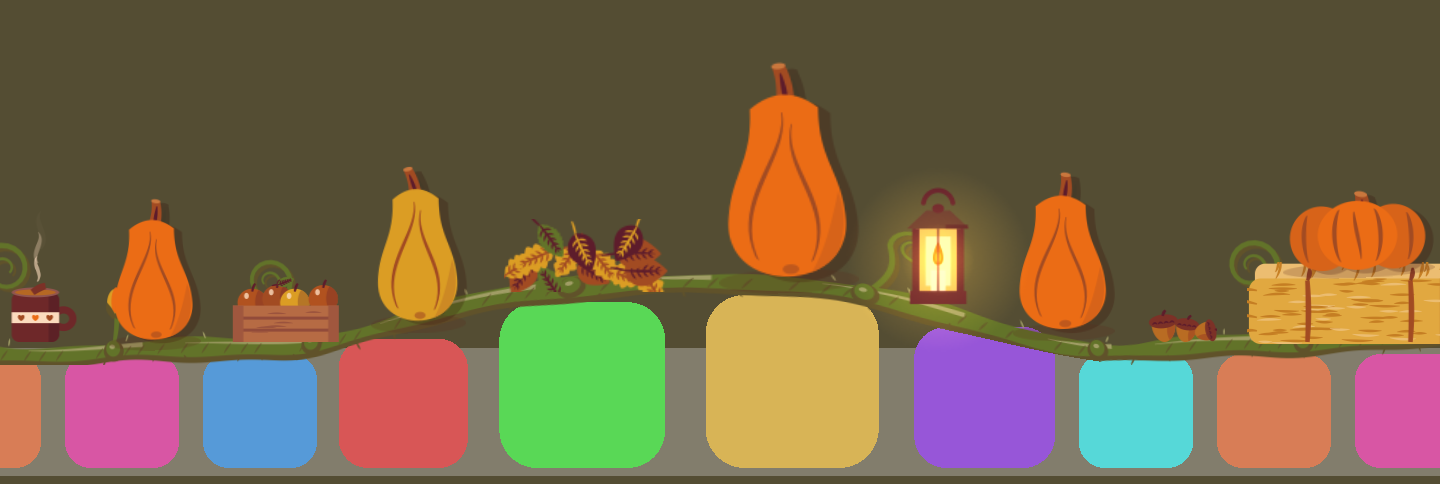
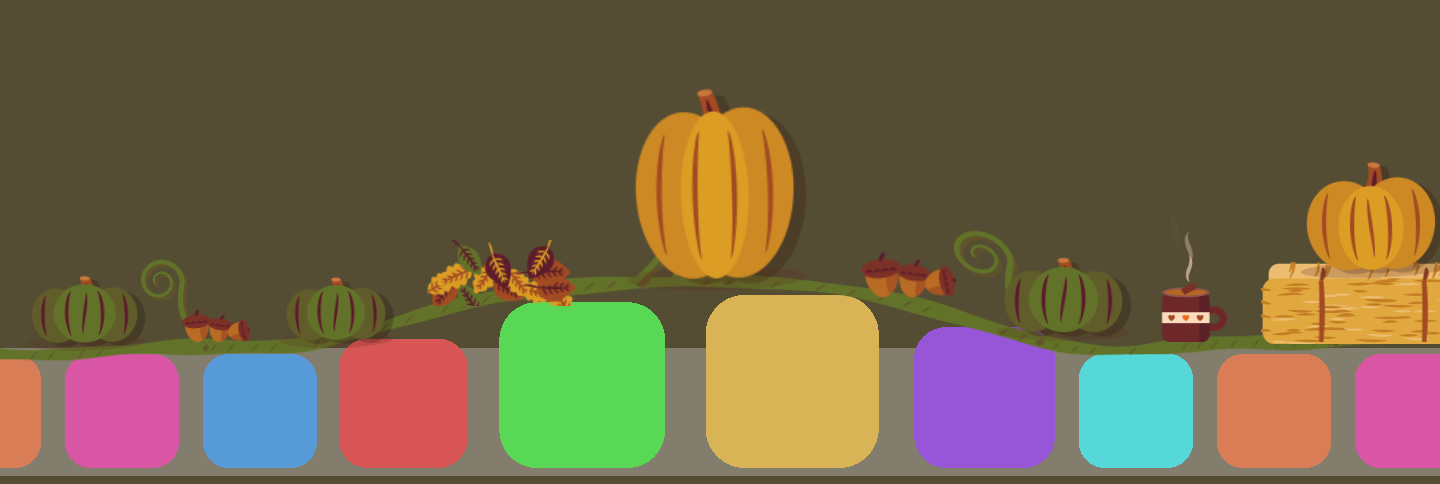
Put the vine back as it was, keeping the ridges and two-tone curls
Drops the thicker vine, darker underside, light streaks, hairs, knots,
sepals and blossoms. The vine keeps the fine ridges across the stem and
the curls with a darker shadow.

Changed region(s): [[0.0, 0.124, 1.0, 0.7748]]

diff --git a/FallDock/Art/Art.swift b/FallDock/Art/Art.swift
@@ -643,8 +643,7 @@ enum LeafArt {
 // MARK: - Vines
 
 /// The pumpkin vine that runs along the top of the Dock behind the pumpkins: a wavy main
-/// vine that swells and pinches, shaded darker underneath and lighter on top, with knots, ridges,
-/// fine hairs, curls, buds and the odd blossom, and no leaves.
+/// vine that swells and pinches, with fine ridges, two-tone curls and buds, and no leaves.
 enum VineArt {
     private static var cache: [String: SKTexture] = [:]
 
@@ -688,84 +687,46 @@ enum VineArt {
         let x0: CGFloat = 4, x1 = size.width - 4
         func vy(_ x: CGFloat) -> CGFloat { centerY(x: x, unit: k) }
         let dark = Palette.green.mixed(with: Palette.plum, 0.38)
-        let light = Palette.green.mixed(with: Palette.peach, 0.4)
-        let width = 7.5 * k
+        let width = 6 * k
 
-        // Knots along the vine, where the tendrils, buds and blossoms grow.
-        var nodes: [CGFloat] = []
-        var x = x0 + rng.float(40...70) * k
-        while x < x1 - 24 * k {
-            nodes.append(x)
-            x += rng.float(55...85) * k
-        }
-
-        // Curly tendrils of mixed sizes, each with a darker shadow, growing from every other knot.
-        for (i, nx) in nodes.enumerated() where i % 2 == 0 {
-            let start = CGPoint(x: nx, y: vy(nx))
-            let dir: CGFloat = (i / 2) % 2 == 0 ? 1 : -1
-            let size = rng.float(24...42) * k
-            Brush.tendril(ctx, from: CGPoint(x: start.x + 1.2 * k, y: start.y - 1.2 * k), dir: dir, size: size, color: dark)
-            Brush.tendril(ctx, from: start, dir: dir, size: size, color: Palette.green)
-        }
-
-        // The vine: a darker underside, the vine itself, then light streaks along its top.
-        taperedVine(ctx, from: x0, to: x1, maxWidth: width * 1.2, color: dark) { vy($0) - 1.4 * k }
+        // The main vine.
         taperedVine(ctx, from: x0, to: x1, maxWidth: width, color: Palette.green) { vy($0) }
-        x = x0 + rng.float(4...20) * k
-        while x < x1 - 10 * k {
-            let length = min(rng.float(18...55) * k, x1 - x)
-            let points = stride(from: x, through: x + length, by: 3).map { CGPoint(x: $0, y: vy($0) + width * 0.2) }
-            Brush.trail(ctx, points.reversed(), maxWidth: width * 0.24, color: light, minF: 0.1)
-            x += length + rng.float(10...36) * k
-        }
 
         // Fine ridges across the stem.
-        x = x0 + 3 * k
+        var ridges = SeededRandom(seed: UInt64(seed) &* 911 &+ 7)
+        var x = x0 + 3 * k
         while x < x1 - 3 * k {
-            if rng.float(0...1) < 0.65 {
+            if ridges.float(0...1) < 0.65 {
                 let y = vy(x)
                 Brush.stroke(ctx, [CGPoint(x: x - 1.2 * k, y: y - width * 0.32), CGPoint(x: x, y: y - width * 0.05),
                                    CGPoint(x: x + 1.4 * k, y: y + width * 0.18)],
                              maxWidth: max(0.6, 0.75 * k), color: dark.withAlpha(0.7), minF: 0.3)
             }
-            x += rng.float(5...9) * k
+            x += ridges.float(5...9) * k
         }
 
-        // Tiny hairs along the vine.
-        x = x0 + rng.float(4...12) * k
-        while x < x1 - 4 * k {
-            let up = rng.float(0...1) < 0.5
-            let y = vy(x) + (up ? width * 0.42 : -width * 0.42)
-            let tip = CGPoint(x: x + rng.float(-1.5...1.5) * k, y: y + (up ? 1 : -1) * rng.float(1.8...3) * k)
-            Brush.stroke(ctx, [CGPoint(x: x, y: y), CGPoint(x: (x + tip.x) / 2, y: (y + tip.y) / 2), tip],
-                         maxWidth: max(0.5, 0.6 * k), color: up ? light : dark, minF: 0.6, endF: 0.1)
-            x += rng.float(6...14) * k
+        // Curly tendrils of mixed sizes, each with a darker shadow.
+        x = x0 + rng.float(50...90) * k
+        var i = 0
+        while x < x1 - 30 * k {
+            let start = CGPoint(x: x, y: vy(x))
+            let dir: CGFloat = i % 2 == 0 ? 1 : -1
+            let size = rng.float(24...42) * k
+            Brush.tendril(ctx, from: CGPoint(x: start.x + 1.2 * k, y: start.y - 1.2 * k), dir: dir, size: size, color: dark)
+            Brush.tendril(ctx, from: start, dir: dir, size: size, color: Palette.green)
+            x += rng.float(75...140) * k
+            i += 1
         }
 
-        // Knots: a darker swelling with a light glint.
-        for nx in nodes {
-            let c = CGPoint(x: nx, y: vy(nx))
-            ctx.setFillColor(dark)
-            ctx.fillEllipse(in: CGRect(x: c.x - width * 0.5, y: c.y - width * 0.55, width: width, height: width * 1.05))
-            ctx.setFillColor(Palette.green)
-            ctx.fillEllipse(in: CGRect(x: c.x - width * 0.38, y: c.y - width * 0.3, width: width * 0.7, height: width * 0.8))
-            ctx.setFillColor(light)
-            ctx.fillEllipse(in: CGRect(x: c.x - width * 0.22, y: c.y + width * 0.08, width: width * 0.28, height: width * 0.22))
-        }
-
-        // Buds and the odd blossom on the knots without tendrils.
-        for (i, nx) in nodes.enumerated() where i % 2 == 1 {
-            let start = CGPoint(x: nx, y: vy(nx) + width * 0.3)
-            let roll = rng.float(0...1)
-            if roll < 0.3 {
-                drawBlossom(ctx, at: start, size: rng.float(13...16) * k, angle: rng.float(65...115), shade: dark)
-            } else if roll < 0.62 {
-                drawBud(ctx, at: start, length: rng.float(14...16) * k, angle: rng.float(70...110), shade: dark)
-            }
+        // A few small buds on short stalks.
+        x = x0 + rng.float(200...280) * k
+        while x < x1 - 40 * k {
+            drawBud(ctx, at: CGPoint(x: x, y: vy(x)), length: rng.float(14...16) * k, angle: rng.float(70...110))
+            x += rng.float(260...340) * k
         }
     }
 
-    private static func drawBud(_ ctx: CGContext, at start: CGPoint, length: CGFloat, angle: CGFloat, shade: CGColor) {
+    private static func drawBud(_ ctx: CGContext, at start: CGPoint, length: CGFloat, angle: CGFloat) {
         let r = angle * .pi / 180
         let tip = CGPoint(x: start.x + cos(r) * length, y: start.y + sin(r) * length)
         Brush.stroke(ctx, [start, CGPoint(x: (start.x + tip.x) / 2 + 2, y: (start.y + tip.y) / 2), tip],
@@ -777,33 +738,6 @@ enum VineArt {
         ctx.fillEllipse(in: CGRect(x: -length * 0.2, y: -length * 0.32, width: length * 0.4, height: length * 0.64))
         ctx.setFillColor(Palette.orange)
         ctx.fillEllipse(in: CGRect(x: -length * 0.1, y: -length * 0.3 + length * 0.05, width: length * 0.2, height: length * 0.6))
-        // Little green sepals cupping the bud.
-        for side in [CGFloat(-1), 1] {
-            Brush.stroke(ctx, [CGPoint(x: 0, y: -length * 0.36), CGPoint(x: side * length * 0.16, y: -length * 0.22),
-                               CGPoint(x: side * length * 0.2, y: -length * 0.02)],
-                         maxWidth: length * 0.14, color: shade, minF: 0.8, endF: 0.1)
-        }
         ctx.restoreGState()
-    }
-
-    /// An open pumpkin blossom: five mustard petals around an orange heart, on a short stalk.
-    private static func drawBlossom(_ ctx: CGContext, at start: CGPoint, size: CGFloat, angle: CGFloat, shade: CGColor) {
-        let r = angle * .pi / 180
-        let center = CGPoint(x: start.x + cos(r) * size * 0.9, y: start.y + sin(r) * size * 0.9)
-        Brush.stroke(ctx, [start, CGPoint(x: (start.x + center.x) / 2 - 1.5, y: (start.y + center.y) / 2), center],
-                     maxWidth: max(1.6, size * 0.15), color: Palette.green, minF: 0.6)
-        for i in 0..<5 {
-            let a = CGFloat(i) / 5 * .pi * 2 + r
-            ctx.saveGState()
-            ctx.translateBy(x: center.x, y: center.y)
-            ctx.rotate(by: a)
-            ctx.setFillColor(i % 2 == 0 ? Palette.mustard : Palette.mustard.mixed(with: Palette.orange, 0.3))
-            ctx.fillEllipse(in: CGRect(x: 0, y: -size * 0.17, width: size * 0.48, height: size * 0.34))
-            ctx.restoreGState()
-        }
-        ctx.setFillColor(Palette.orange)
-        ctx.fillEllipse(in: CGRect(x: center.x - size * 0.16, y: center.y - size * 0.16, width: size * 0.32, height: size * 0.32))
-        ctx.setFillColor(Palette.rust)
-        ctx.fillEllipse(in: CGRect(x: center.x - size * 0.06, y: center.y - size * 0.06, width: size * 0.12, height: size * 0.12))
     }
 }

diff --git a/README.md b/README.md
@@ -38,7 +38,7 @@ In Xcode choose **Product → Archive**, then **Distribute App → Custom → Co
 ## The 🎃 menu
 
 - **Show Pumpkins**: hides or shows everything.
-- **Vines**: a single shaded pumpkin vine along the Dock, behind the pumpkins, with knots, curls, buds and the odd blossom.
+- **Vines**: a single pumpkin vine along the Dock, behind the pumpkins, with fine ridges, two-tone curls and buds.
 - **Cozy Extras**: the hay bales, leaf piles, acorns, apples, mug, lantern and the squirrel. The lantern glows brighter in the evening.
 - **Falling Leaves**: a leaf drifts down onto the Dock every few seconds.
 - **Smash Sound**: a soft, squishy thump when you smash a pumpkin.
